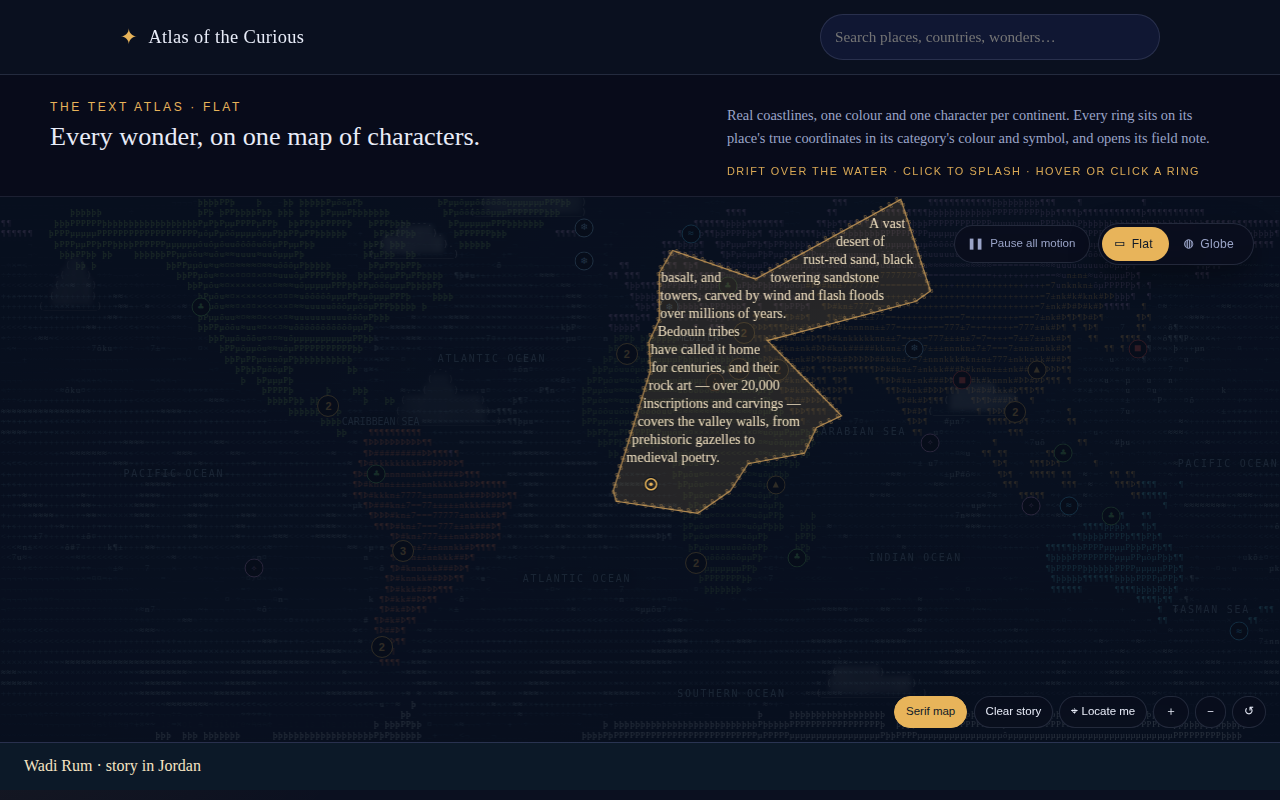
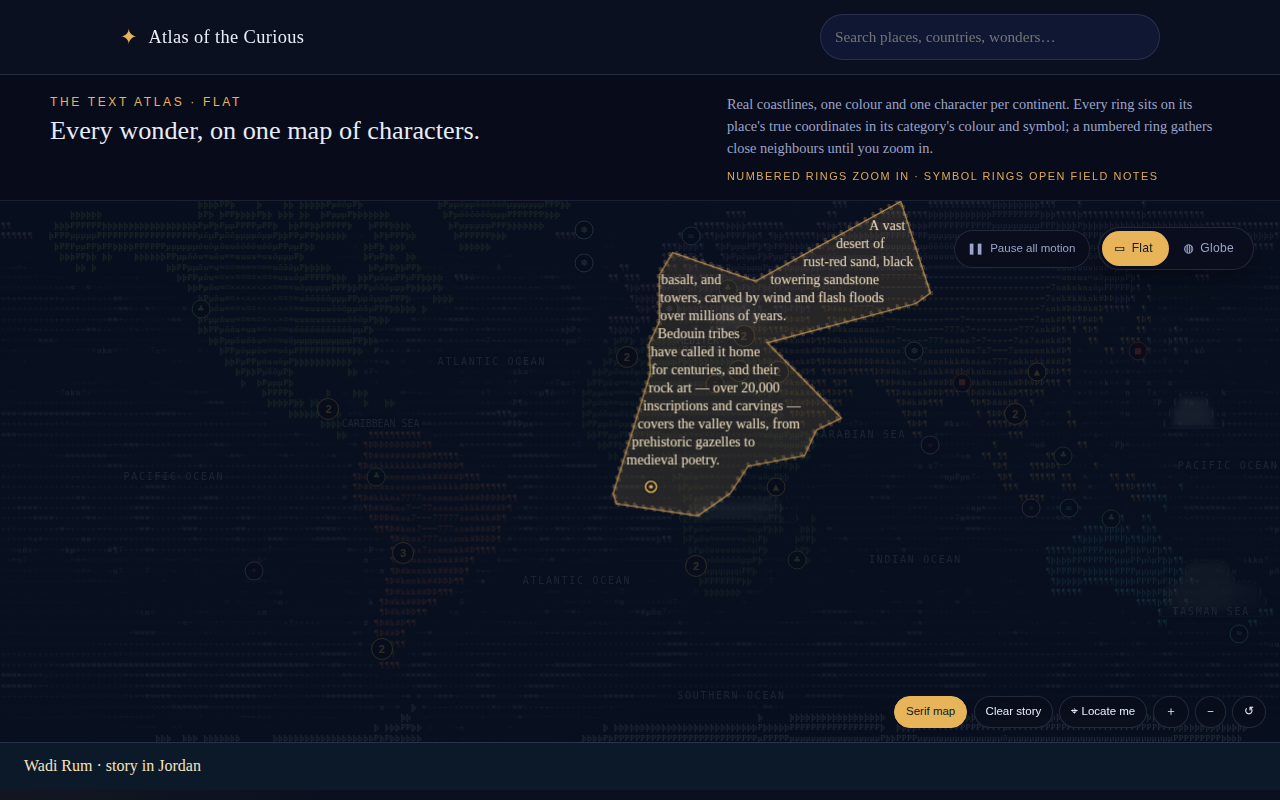
Address review round 9: filter persistence, readable names, controls, copy
- The flat map reapplies the active filter after every rebuild, before it
  clusters; the readout starts from the filter restored from the URL.
- Globe country names sit on a padded bed of the stage's ground, readable
  over either texture.
- The intro band and map share a fixed-height frame laid out in CSS, so
  the map has its final size from the first layout and captions below
  never resize it.
- Globe controls get a little more type and room between groups; the
  desktop flat hint explains numbered versus symbol rings.

diff --git a/index.html b/index.html
@@ -51,73 +51,78 @@
 
   <main>
     <section class="atlas" id="text-atlas" data-view="flat" aria-labelledby="atlas-title">
-      <div class="atlas-overlay">
-        <p class="hero-kicker"><span class="for-flat">The Text Atlas · flat</span><span class="for-globe">The Text Atlas · globe</span></p>
-        <h2 id="atlas-title" class="atlas-title"><span class="for-flat">Every wonder, on one map of characters.</span><span class="for-globe">Every wonder, on one turning world.</span></h2>
-        <p class="atlas-sub for-flat">
-          Real coastlines, one colour and one character per continent. Every ring sits on its
-          place's true coordinates in its category's colour and symbol, and opens its field note.
-        </p>
-        <p class="atlas-sub for-globe">
-          The same continents, colours and forty rings, wrapped onto a sphere of characters.
-          Descend from the planet to coastlines to named countries; where rings crowd, a numbered ring zooms in.
-        </p>
-        <p class="atlas-hint for-flat hint-pointer">drift over the water · click to splash · hover or click a ring</p>
-        <p class="atlas-hint for-flat hint-touch">numbered rings zoom in · symbol rings open notes</p>
-        <p class="atlas-hint for-globe hint-pointer">drag to turn · <span class="mod-key">ctrl</span> + scroll to zoom · hover or click a ring</p>
-        <p class="atlas-hint for-globe hint-touch">swipe sideways to turn · numbered rings zoom in · symbol rings open notes</p>
-      </div>
-      <div class="map-viewport" role="group" aria-label="The atlas map, shown as a flat character map or as a turning character globe, with 40 marked places.">
-        <div class="view-tools">
-        <button class="motion-btn" id="motion-toggle" type="button" aria-pressed="false" title="Pause the moving sea, clouds, rings and globe rotation"><span class="motion-glyph" aria-hidden="true">❚❚</span><span class="motion-label">Pause all motion</span></button>
-        <div class="view-switch" role="group" aria-label="Map projection">
-          <button class="view-btn" type="button" data-view-target="flat" aria-pressed="true" title="Flat map"><span class="view-glyph" aria-hidden="true">▭</span><span class="view-label">Flat</span></button>
-          <button class="view-btn" type="button" data-view-target="globe" aria-pressed="false" title="Globe"><span class="view-glyph" aria-hidden="true">◍</span><span class="view-label">Globe</span></button>
+      <!-- The intro band and the map share one frame of fixed height (css/globe.css),
+           so captions below it never resize the map. -->
+      <div class="atlas-frame">
+        <div class="atlas-overlay">
+          <p class="hero-kicker"><span class="for-flat">The Text Atlas · flat</span><span class="for-globe">The Text Atlas · globe</span></p>
+          <h2 id="atlas-title" class="atlas-title"><span class="for-flat">Every wonder, on one map of characters.</span><span class="for-globe">Every wonder, on one turning world.</span></h2>
+          <p class="atlas-sub for-flat">
+            Real coastlines, one colour and one character per continent. Every ring sits on its
+            place's true coordinates in its category's colour and symbol; a numbered ring gathers
+            close neighbours until you zoom in.
+          </p>
+          <p class="atlas-sub for-globe">
+            The same continents, colours and forty rings, wrapped onto a sphere of characters.
+            Descend from the planet to coastlines to named countries; where rings crowd, a numbered ring zooms in.
+          </p>
+          <p class="atlas-hint for-flat hint-pointer">numbered rings zoom in · symbol rings open field notes</p>
+          <p class="atlas-hint for-flat hint-touch">numbered rings zoom in · symbol rings open notes</p>
+          <p class="atlas-hint for-globe hint-pointer">drag to turn · <span class="mod-key">ctrl</span> + scroll to zoom · hover or click a ring</p>
+          <p class="atlas-hint for-globe hint-touch">swipe sideways to turn · numbered rings zoom in · symbol rings open notes</p>
         </div>
-        </div>
-        <p class="atlas-filter" id="atlas-filter" hidden><span class="atlas-filter-text" id="atlas-filter-text" role="status"></span><button class="atlas-filter-clear" id="atlas-filter-clear" type="button">Clear</button></p>
-        <p class="gesture-hint" id="gesture-hint" role="status" hidden></p>
-        <p class="visually-hidden" id="flat-instructions">Tab to a ring to preview it and press Enter to open it. Hold <span class="mod-key-name">Control</span> and scroll, or press plus and minus, to zoom; arrow keys pan a zoomed map; 0 resets.</p>
-        <!-- map stage injected here by js/map.js -->
-        <!-- The globe (earthxt/app.js) is loaded by js/views.js the first time
-             this view opens; until then it is only this markup. -->
-        <div class="globe-view" id="globe-view" hidden>
-          <div class="globe-stage" id="globe-stage">
-            <canvas id="globe" tabindex="0" role="img" aria-label="Interactive globe made of text characters" aria-describedby="globe-instructions">An interactive text globe. Focus it and use the arrow keys to turn it, plus and minus to zoom.</canvas>
-            <div id="country-labels" aria-hidden="true"></div>
-            <div id="globe-markers" role="group" aria-label="Atlas places on the globe"></div>
-            <div class="loading-state" id="loading" role="status"><span class="loading-glyph" aria-hidden="true">◍</span>Wrapping the atlas onto a sphere…</div>
+        <div class="map-viewport" role="group" aria-label="The atlas map, shown as a flat character map or as a turning character globe, with 40 marked places.">
+          <div class="view-tools">
+          <button class="motion-btn" id="motion-toggle" type="button" aria-pressed="false" title="Pause the moving sea, clouds, rings and globe rotation"><span class="motion-glyph" aria-hidden="true">❚❚</span><span class="motion-label">Pause all motion</span></button>
+          <div class="view-switch" role="group" aria-label="Map projection">
+            <button class="view-btn" type="button" data-view-target="flat" aria-pressed="true" title="Flat map"><span class="view-glyph" aria-hidden="true">▭</span><span class="view-label">Flat</span></button>
+            <button class="view-btn" type="button" data-view-target="globe" aria-pressed="false" title="Globe"><span class="view-glyph" aria-hidden="true">◍</span><span class="view-label">Globe</span></button>
           </div>
-          <p class="visually-hidden" id="globe-instructions">Drag, use the arrow keys or the turn buttons to turn the globe. Hold <span class="mod-key-name">Control</span> and scroll, pinch, or press plus and minus to zoom; 0 resets; space toggles rotation.</p>
-          <p class="globe-error" id="data-error" role="status" hidden></p>
-        </div>
-        <div class="map-controls" data-for="flat" role="group" aria-label="Map controls">
-          <button class="map-btn" id="map-serif" type="button" aria-pressed="false">Serif map</button>
-          <button class="map-btn" id="map-art-clear" type="button" hidden>Clear story</button>
-          <button class="map-btn" id="map-locate" type="button" title="Show where I am on the map">⌖ Locate me</button>
-          <button class="map-btn" id="map-zoom-in" type="button" aria-label="Zoom in" title="Zoom in (+)">＋</button>
-          <button class="map-btn" id="map-zoom-out" type="button" aria-label="Zoom out" title="Zoom out (−)">−</button>
-          <button class="map-btn" id="map-zoom-reset" type="button" aria-label="Reset map view" title="Reset view">↺</button>
-        </div>
-        <div class="map-controls globe-controls" data-for="globe" role="group" aria-label="Globe controls" hidden>
-          <div class="lod-switch" role="group" aria-label="Level of detail">
-            <button class="map-btn lod-btn" type="button" data-level="0" aria-pressed="true" title="The whole planet">Planet</button>
-            <button class="map-btn lod-btn" type="button" data-level="1" aria-pressed="false" title="Closer coastlines and islands">Coasts</button>
-            <button class="map-btn lod-btn" type="button" data-level="2" aria-pressed="false" title="Borders and country names">Countries</button>
           </div>
-          <button class="map-btn" id="serif-toggle" type="button" aria-pressed="false">Serif<span class="long-label"> globe</span></button>
-          <button class="map-btn" id="labels-toggle" type="button" aria-pressed="true" title="Place and country names at close range">Names</button>
-          <div class="turn-pad" role="group" aria-label="Turn the globe">
-            <button class="map-btn" id="turn-left" type="button" aria-label="Turn west" title="Turn west (←)">←</button>
-            <button class="map-btn" id="turn-up" type="button" aria-label="Turn north" title="Turn north (↑)">↑</button>
-            <button class="map-btn" id="turn-down" type="button" aria-label="Turn south" title="Turn south (↓)">↓</button>
-            <button class="map-btn" id="turn-right" type="button" aria-label="Turn east" title="Turn east (→)">→</button>
+          <p class="atlas-filter" id="atlas-filter" hidden><span class="atlas-filter-text" id="atlas-filter-text" role="status"></span><button class="atlas-filter-clear" id="atlas-filter-clear" type="button">Clear</button></p>
+          <p class="gesture-hint" id="gesture-hint" role="status" hidden></p>
+          <p class="visually-hidden" id="flat-instructions">Tab to a ring to preview it and press Enter to open it. Hold <span class="mod-key-name">Control</span> and scroll, or press plus and minus, to zoom; arrow keys pan a zoomed map; 0 resets.</p>
+          <!-- map stage injected here by js/map.js -->
+          <!-- The globe (earthxt/app.js) is loaded by js/views.js the first time
+               this view opens; until then it is only this markup. -->
+          <div class="globe-view" id="globe-view" hidden>
+            <div class="globe-stage" id="globe-stage">
+              <canvas id="globe" tabindex="0" role="img" aria-label="Interactive globe made of text characters" aria-describedby="globe-instructions">An interactive text globe. Focus it and use the arrow keys to turn it, plus and minus to zoom.</canvas>
+              <div id="country-labels" aria-hidden="true"></div>
+              <div id="globe-markers" role="group" aria-label="Atlas places on the globe"></div>
+              <div class="loading-state" id="loading" role="status"><span class="loading-glyph" aria-hidden="true">◍</span>Wrapping the atlas onto a sphere…</div>
+            </div>
+            <p class="visually-hidden" id="globe-instructions">Drag, use the arrow keys or the turn buttons to turn the globe. Hold <span class="mod-key-name">Control</span> and scroll, pinch, or press plus and minus to zoom; 0 resets; space toggles rotation.</p>
+            <p class="globe-error" id="data-error" role="status" hidden></p>
           </div>
-          <button class="map-btn" id="rotate-toggle" type="button" aria-pressed="false" aria-label="Auto-rotate"><span id="rotate-icon" aria-hidden="true">▷</span> <span id="rotate-text">Auto-rotate</span></button>
-          <div class="zoom-group" role="group" aria-label="Zoom">
-            <button class="map-btn" id="zoom-in" type="button" aria-label="Zoom in" title="Zoom in (+)">＋</button>
-            <button class="map-btn" id="zoom-out" type="button" aria-label="Zoom out" title="Zoom out (−)">−</button>
-            <button class="map-btn" id="reset-view" type="button" aria-label="Reset globe view" title="Reset view (0)">↺</button>
+          <div class="map-controls" data-for="flat" role="group" aria-label="Map controls">
+            <button class="map-btn" id="map-serif" type="button" aria-pressed="false">Serif map</button>
+            <button class="map-btn" id="map-art-clear" type="button" hidden>Clear story</button>
+            <button class="map-btn" id="map-locate" type="button" title="Show where I am on the map">⌖ Locate me</button>
+            <button class="map-btn" id="map-zoom-in" type="button" aria-label="Zoom in" title="Zoom in (+)">＋</button>
+            <button class="map-btn" id="map-zoom-out" type="button" aria-label="Zoom out" title="Zoom out (−)">−</button>
+            <button class="map-btn" id="map-zoom-reset" type="button" aria-label="Reset map view" title="Reset view">↺</button>
+          </div>
+          <div class="map-controls globe-controls" data-for="globe" role="group" aria-label="Globe controls" hidden>
+            <div class="lod-switch" role="group" aria-label="Level of detail">
+              <button class="map-btn lod-btn" type="button" data-level="0" aria-pressed="true" title="The whole planet">Planet</button>
+              <button class="map-btn lod-btn" type="button" data-level="1" aria-pressed="false" title="Closer coastlines and islands">Coasts</button>
+              <button class="map-btn lod-btn" type="button" data-level="2" aria-pressed="false" title="Borders and country names">Countries</button>
+            </div>
+            <button class="map-btn" id="serif-toggle" type="button" aria-pressed="false">Serif<span class="long-label"> globe</span></button>
+            <button class="map-btn" id="labels-toggle" type="button" aria-pressed="true" title="Place and country names at close range">Names</button>
+            <div class="turn-pad" role="group" aria-label="Turn the globe">
+              <button class="map-btn" id="turn-left" type="button" aria-label="Turn west" title="Turn west (←)">←</button>
+              <button class="map-btn" id="turn-up" type="button" aria-label="Turn north" title="Turn north (↑)">↑</button>
+              <button class="map-btn" id="turn-down" type="button" aria-label="Turn south" title="Turn south (↓)">↓</button>
+              <button class="map-btn" id="turn-right" type="button" aria-label="Turn east" title="Turn east (→)">→</button>
+            </div>
+            <button class="map-btn" id="rotate-toggle" type="button" aria-pressed="false" aria-label="Auto-rotate"><span id="rotate-icon" aria-hidden="true">▷</span> <span id="rotate-text">Auto-rotate</span></button>
+            <div class="zoom-group" role="group" aria-label="Zoom">
+              <button class="map-btn" id="zoom-in" type="button" aria-label="Zoom in" title="Zoom in (+)">＋</button>
+              <button class="map-btn" id="zoom-out" type="button" aria-label="Zoom out" title="Zoom out (−)">−</button>
+              <button class="map-btn" id="reset-view" type="button" aria-label="Reset globe view" title="Reset view (0)">↺</button>
+            </div>
           </div>
         </div>
       </div>

diff --git a/css/globe.css b/css/globe.css
@@ -227,7 +227,14 @@
 .globe-stage a.map-card-cta:hover { text-decoration: underline; }
 
 /* ---------- Globe controls (in the shared .map-controls bar) ---------- */
-.globe-controls { align-items: center; }
+.globe-controls { align-items: center; gap: 10px; }
+/* Wider screens: a little more type and air between the control groups
+   (detail · appearance · movement · zoom). */
+@media (min-width: 641px) {
+  .globe-controls .map-btn { font-size: 0.76rem; }
+  .globe-controls .turn-pad .map-btn { padding: 4px 10px; }
+  .globe-controls .zoom-group { gap: 6px; }
+}
 .zoom-group { display: flex; gap: 6px; }
 .turn-pad { display: flex; gap: 2px; padding: 2px; border: 1px solid var(--line); border-radius: 999px; background: rgba(9, 13, 28, 0.82); }
 .turn-pad .map-btn { border-color: transparent; background: transparent; padding: 4px 8px; }
@@ -291,7 +298,7 @@
    place on either projection hides behind it. Wide screens set it in two
    columns: the title on the left, how to read the map on the right.
    (`.atlas >` outranks css/style.css, which loads after this file.) */
-.atlas > .atlas-overlay {
+#text-atlas .atlas-overlay {
   position: relative;
   top: auto; left: auto; right: auto;
   z-index: auto;
@@ -303,40 +310,42 @@
   box-shadow: none;
   pointer-events: auto;
 }
-.atlas > .atlas-overlay .atlas-title { margin-bottom: 6px; }
-.atlas > .atlas-overlay .atlas-sub { max-width: 640px; }
-/* The map's height is set, not flexed: a reading caption appearing below it
-   must not resize it (a resize rebuilds the flat map). --intro-h is the
-   band's measured height (js/views.js). */
+#text-atlas .atlas-overlay .atlas-title { margin-bottom: 6px; }
+#text-atlas .atlas-overlay .atlas-sub { max-width: 640px; }
+/* The intro band and the map fill one frame of fixed height; the map flexes
+   into what the band leaves, in CSS from the first layout. Reading captions
+   sit below the frame, so they never resize the map (a resize rebuilds it). */
 @media (min-width: 641px) {
   #text-atlas { height: auto; min-height: 0; }
-  #text-atlas .map-viewport {
-    flex: none;
-    height: max(430px, calc(100vh - 132px - var(--intro-h, 122px)));
+  .atlas-frame {
+    display: flex;
+    flex-direction: column;
+    height: max(560px, calc(100vh - 132px));
   }
+  #text-atlas .map-viewport { flex: 1 1 auto; height: auto; min-height: 0; }
 }
 @media (min-width: 1100px) {
-  .atlas > .atlas-overlay {
+  #text-atlas .atlas-overlay {
     display: grid;
     grid-template-columns: minmax(0, 1.25fr) minmax(0, 1fr);
     min-height: 122px;
     column-gap: 48px;
     align-items: end;
   }
-  .atlas > .atlas-overlay .hero-kicker,
-  .atlas > .atlas-overlay .atlas-title { grid-column: 1; }
-  .atlas > .atlas-overlay .atlas-title { margin: 0; font-size: clamp(1.5rem, 2.05vw, 1.95rem); }
-  .atlas > .atlas-overlay .atlas-sub,
-  .atlas > .atlas-overlay .atlas-hint { grid-column: 2; }
-  .atlas > .atlas-overlay .atlas-sub { grid-row: 1 / span 2; align-self: end; margin: 0; max-width: none; }
-  .atlas > .atlas-overlay .atlas-hint { grid-row: 3; margin-top: 8px; }
-  .atlas > .atlas-overlay .hero-kicker { grid-row: 1; margin-bottom: 6px; }
-  .atlas > .atlas-overlay .atlas-title { grid-row: 2 / span 2; align-self: start; }
+  #text-atlas .atlas-overlay .hero-kicker,
+  #text-atlas .atlas-overlay .atlas-title { grid-column: 1; }
+  #text-atlas .atlas-overlay .atlas-title { margin: 0; font-size: clamp(1.5rem, 2.05vw, 1.95rem); }
+  #text-atlas .atlas-overlay .atlas-sub,
+  #text-atlas .atlas-overlay .atlas-hint { grid-column: 2; }
+  #text-atlas .atlas-overlay .atlas-sub { grid-row: 1 / span 2; align-self: end; margin: 0; max-width: none; }
+  #text-atlas .atlas-overlay .atlas-hint { grid-row: 3; margin-top: 8px; }
+  #text-atlas .atlas-overlay .hero-kicker { grid-row: 1; margin-bottom: 6px; }
+  #text-atlas .atlas-overlay .atlas-title { grid-row: 2 / span 2; align-self: start; }
 }
 /* Phone toolbars (js/views.js moves the floating controls into them). */
 .map-toolbar { display: none; }
 @media (max-width: 640px) {
-  .atlas > .atlas-overlay { padding: 12px 16px 11px; }
+  #text-atlas .atlas-overlay { padding: 12px 16px 11px; }
   .map-toolbar {
     display: flex;
     flex-wrap: wrap;
@@ -390,7 +399,7 @@
   .globe-controls #rotate-toggle { order: 4; }
   .globe-controls #serif-toggle { order: 5; }
   .globe-controls .long-label { display: none; }
-  .atlas > .atlas-overlay .atlas-hint { font-size: 0.75rem; letter-spacing: 0.04em; line-height: 1.45; }
+  #text-atlas .atlas-overlay .atlas-hint { font-size: 0.75rem; letter-spacing: 0.04em; line-height: 1.45; }
   .lod-switch .map-btn { padding: 5px 9px; }
 }
 .globe-stage .map-card-cat { white-space: nowrap; }

diff --git a/js/views.js b/js/views.js
@@ -96,15 +96,18 @@ if (section && globeView) {
   // Search and category feedback where the map shows it, with one way out.
   const filter = document.getElementById("atlas-filter");
   const filterText = document.getElementById("atlas-filter-text");
-  window.addEventListener("atlas:filter", (event) => {
-    const { shown, total, query, category } = event.detail;
+  const showFilter = (detail) => {
+    if (!detail) return;
+    const { shown, total, query, category } = detail;
     const active = shown !== total || query || category;
     if (!filter || !filterText) return;
     filter.hidden = !active;
     if (!active) { filterText.textContent = ""; return; }
     const scope = [query && `“${query}”`, category].filter(Boolean).join(" in ");
     filterText.textContent = `${shown} of ${total} places${scope ? ` match ${scope}` : ""}`;
-  });
+  };
+  window.addEventListener("atlas:filter", (event) => showFilter(event.detail));
+  showFilter(window.ATLAS_FILTER_STATE);
   document.getElementById("atlas-filter-clear")?.addEventListener("click", () => window.ATLAS_CLEAR_FILTER?.());
 
   // On a phone the map is a short band, so its switch, filter readout and
@@ -133,14 +136,6 @@ if (section && globeView) {
   }
   phone.addEventListener("change", placeTools);
   placeTools();
-
-  // The map below takes the room the intro band leaves (css/globe.css).
-  const intro = section.querySelector(":scope > .atlas-overlay");
-  if (intro && typeof ResizeObserver === "function") {
-    new ResizeObserver(() => {
-      section.style.setProperty("--intro-h", Math.ceil(intro.getBoundingClientRect().height) + "px");
-    }).observe(intro);
-  }
 
   // Zoom takes Command on a Mac and Control elsewhere (js/gesture-hint.js).
   if (/Mac|iPhone|iPad/.test(navigator.platform || "")) {

diff --git a/earthxt/renderer.js b/earthxt/renderer.js
@@ -12,6 +12,8 @@ export const CONTINENT_GLYPHS = Object.freeze(['#', '%', '+', '8', '@', ':', 'x'
 const OCEAN = ['rgba(74, 124, 164, 0.2)', 'rgba(90, 146, 186, 0.27)', 'rgba(110, 172, 208, 0.34)', 'rgba(140, 200, 232, 0.42)'];
 const LAND_ALPHA = [0.5, 0.66, 0.82, 0.96];
 const BORDER = 'rgba(244, 232, 204, 0.82)', GRID = 'rgba(232, 180, 90, 0.42)';
+// Country names: warm ink on a bed of the stage's ground (--bg-soft).
+const LABEL_INK = '#e4e4ca', LABEL_GROUND = 'rgba(16, 23, 51, 0.86)';
 
 function rgba(hex, alpha) {
   const value = parseInt(hex.replace('#', ''), 16);
@@ -341,7 +343,7 @@ export class TextRenderer {
     ctx.font = role.font;
     ctx.textAlign = 'left';
     ctx.textBaseline = 'alphabetic';
-    ctx.fillStyle = '#e4e4ca';
+    ctx.fillStyle = LABEL_INK;
     if (this.nativeSpacing) ctx.letterSpacing = `${role.letterSpacing}px`;
     const safe = { x: 32, y: 60, width: width - 96, height: height - 150 };
     const labels = [...geography.labels()].sort((a, b) => a.rank - b.rank || a.id - b.id);
@@ -357,6 +359,12 @@ export class TextRenderer {
         continue;
       }
       for (const line of lines) {
+        // A ground-coloured bed under each line, padded, so the name reads
+        // over the continent's glyphs in either texture.
+        const { box } = line;
+        ctx.fillStyle = LABEL_GROUND;
+        ctx.fillRect(box.x - 3, box.y - 2, box.width + 6, box.height + 4);
+        ctx.fillStyle = LABEL_INK;
         if (this.nativeSpacing) ctx.fillText(line.text, line.x, line.y);
         else for (const glyph of line.glyphs) ctx.fillText(glyph.text, glyph.x, glyph.y);
         occupied.push(line.box);

diff --git a/js/map.js b/js/map.js
@@ -853,9 +853,9 @@ import {
        is the one case that earns it. Phases 7–8's `.map-art` canvas and
        `.map-art-inset` are in there and are both transparent, so they hide no
        glyph; if the inset ever grows a background, it belongs in this list. */
-    // The intro panel is the section's own child (it becomes a band above the
-    // map on narrow screens); on wide ones it floats over the map like these.
-    const floating = [...viewport.children, ...section.querySelectorAll(":scope > .atlas-overlay")];
+    // The intro panel is a band above the map (outside the viewport); it only
+    // masks water if a layout ever floats it over the map again.
+    const floating = [...viewport.children, ...section.querySelectorAll(".atlas-overlay")];
     for (const el of floating) {
       if (el === stage || el.hidden || typeof el.getBoundingClientRect !== "function") continue;
       const r = el.getBoundingClientRect();
@@ -3549,7 +3549,9 @@ import {
       });
     }
     clusterEls = [];
-    reclusterFlat(true);
+    // A rebuild makes fresh dots: the active search/category filter applies
+    // to them before they cluster (setMarkersVisible reclusters).
+    setMarkersVisible(visibleIds || window.ATLAS_VISIBLE || null);
     showCardRef = showCard;
     hideCardRef = hideCard;
     cardNativeLinesRef = function (x) {

diff --git a/js/app.js b/js/app.js
@@ -1061,10 +1061,13 @@
       window.dispatchEvent(new CustomEvent("atlas:visible", { detail: ids }));
       // What the filter is, for the readout beside the hero map (js/views.js).
       var cat = categoryById.get(state.category);
-      window.dispatchEvent(new CustomEvent("atlas:filter", { detail: {
+      // Kept as state too, so a view that starts later (js/views.js, the
+      // globe) begins from the filter restored from the URL.
+      window.ATLAS_FILTER_STATE = {
         shown: places.length, total: DATA.places.length,
         query: state.query.trim(), category: cat ? cat.label : ""
-      } }));
+      };
+      window.dispatchEvent(new CustomEvent("atlas:filter", { detail: window.ATLAS_FILTER_STATE }));
     }
   }
   // The hero map's readout clears search and category in one go.
